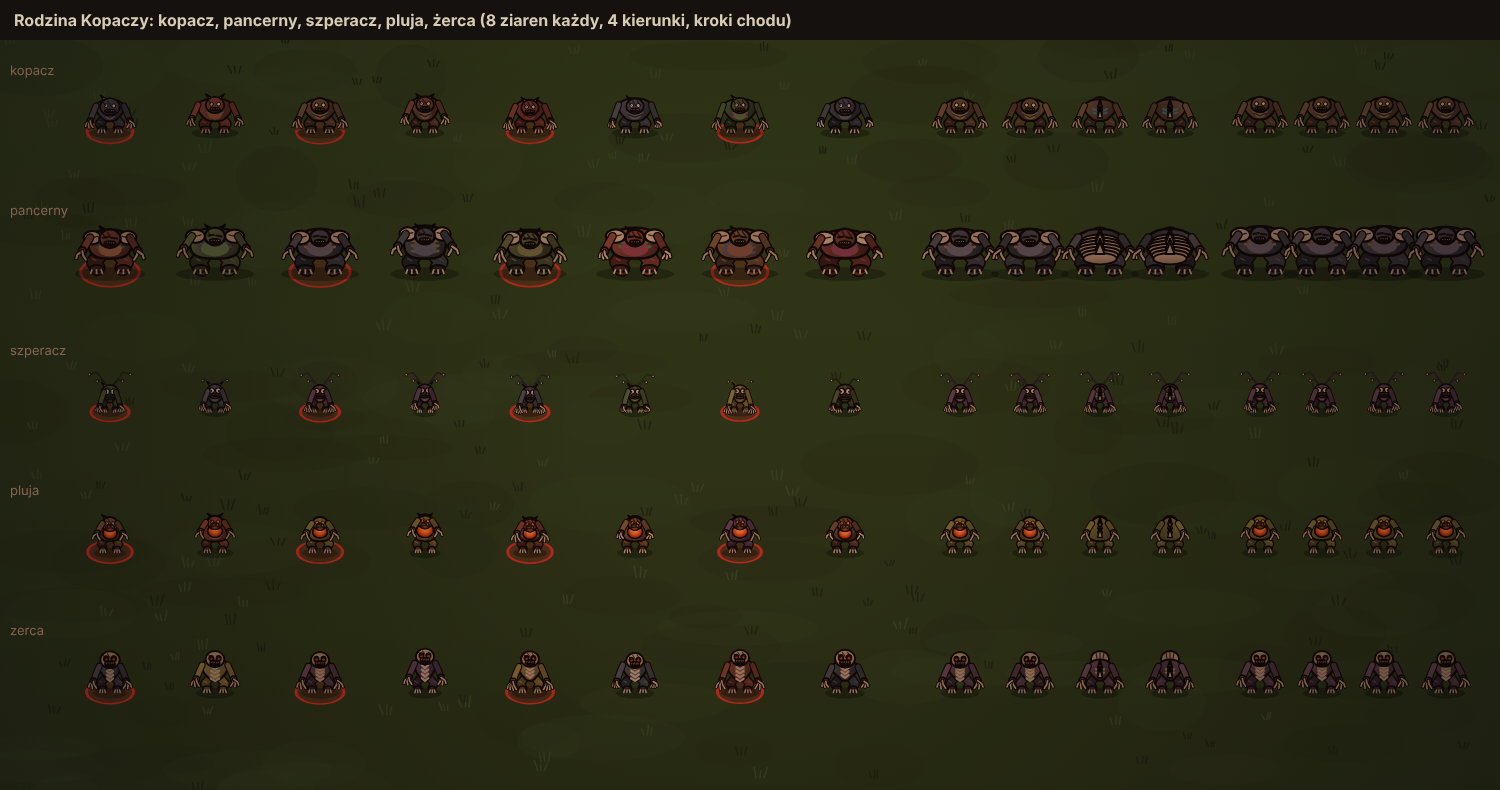
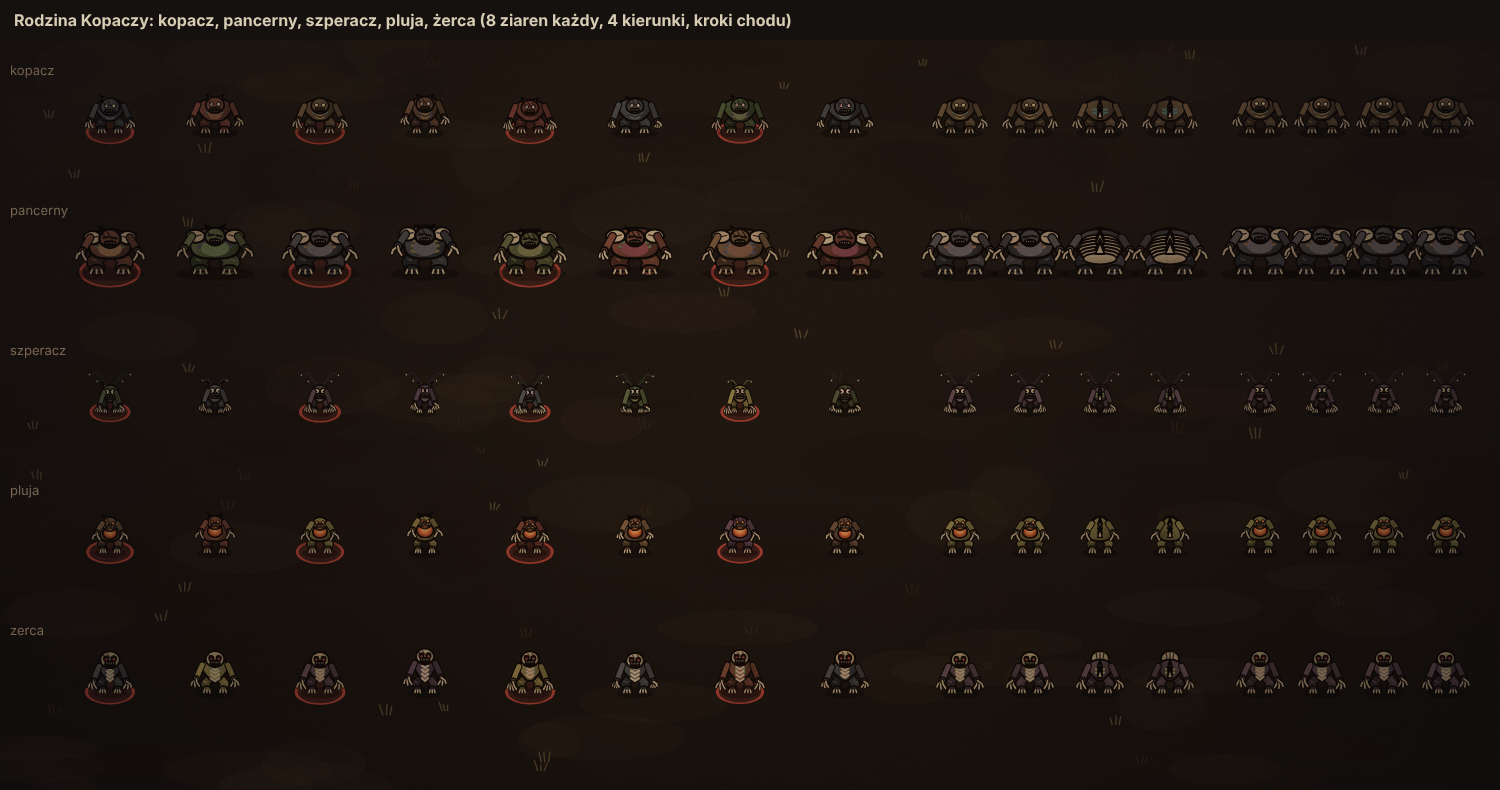
Motywy oprawy: świat jasny, każdy loch własny wygląd (arena, kopacze, gniazdo), nowe ślady na ziemi
Claude-Session: https://claude.ai/code/session_01YGgK3XekFYaLDhBRBtmmRq

diff --git a/www/walka.html b/www/walka.html
@@ -66,7 +66,8 @@ import {genCharacter,drawCharacter,DIRS} from '../src/art/characters.js';
 import {heroSpec} from '../src/art/classes.js';
 import {drawGridLines,fillCells,drawCellOutline,drawFlagstones} from '../src/art/gridview.js';
 import * as N from '../src/art/nature.js';
-import {grave,ashCloud,bloodSplat,bones,crack} from '../src/art/props.js';
+import {grave,ashCloud,DECALS} from '../src/art/props.js';
+import {applyTheme} from '../src/art/theme.js';
 import {applyMood,glow} from '../src/art/mood.js';
 import {drawSpellIcon} from '../src/art/spellicons.js';
 import {createState,currentUnit,unitById,gridOf,occupied} from '../src/game/state.js';
@@ -80,7 +81,7 @@ import {loadCharacter} from '../src/game/save.js';
 import {unitFromCharacter,learnSpell,toggleEquipped} from '../src/game/progression.js';
 
 const cv=document.getElementById('c'),g=cv.getContext('2d'),$=id=>document.getElementById(id);
-const Q=new URLSearchParams(location.search),mood=Q.get('mood')||'grit',scenario=Q.get('scenario')||'default',ALL=Q.get('spells')==='all',PAGE=6;
+const Q=new URLSearchParams(location.search),TH=applyTheme(Q.get('theme')||'arena'),mood=Q.get('mood')||TH.mood,scenario=Q.get('scenario')||'default',ALL=Q.get('spells')==='all',PAGE=6;
 // zapisana postać z kreatora i karty postaci (pomijana, gdy podano ?hero=)
 let SAVED=Q.get('hero')?null:loadCharacter();if(SAVED&&ALL)for(const sp of DEV_SPELLS)SAVED=toggleEquipped(learnSpell(SAVED,sp.id),sp.id);
 const HERO=SAVED?SAVED.classId:(Q.get('hero')||'zalobnik');
@@ -107,10 +108,10 @@ const COL={earth:'#d2a45c',fire:'#ff6a3a',water:'#5ab0ff',air:'#7ae07a',neutral:
 
 const bg=document.createElement('canvas');
 function renderBg(){bg.width=cv.width;bg.height=cv.height;const b=bg.getContext('2d');
-  N.ground(b,bg.width,bg.height,7,{biome:'dark'});N.tufts(b,bg.width,bg.height,7,Math.round(bg.width*bg.height/1400),null,{biome:'dark'});
-  b.setTransform(view.s,0,0,view.s,view.ox,view.oy);drawFlagstones(b,grid,7);drawGridLines(b,grid,'rgba(220,200,170,.16)');
+  N.ground(b,bg.width,bg.height,7,{biome:TH.biome});N.tufts(b,bg.width,bg.height,7,Math.round(bg.width*bg.height/1400*TH.tufts),null,{biome:TH.biome});
+  b.setTransform(view.s,0,0,view.s,view.ox,view.oy);drawFlagstones(b,grid,7,TH.stone);drawGridLines(b,grid,'rgba(220,200,170,.16)');
   // ślady dawnych walk na kaflach: krew, kości, pęknięcia (stałe, zależne tylko od pozycji)
-  for(let y=0;y<7;y++)for(let x=0;x<7;x++){const h=(x*73+y*151+17)%11,c=grid.center(x,y);if(h===0)bloodSplat(b,c[0]+4,c[1],.9,x*7+y);else if(h===1)bones(b,c[0]-3,c[1]+1,.9,x*5+y);else if(h===2||h===3)crack(b,c[0],c[1]+1,.9,x+y*9)}}
+  for(let y=0;y<7;y++)for(let x=0;x<7;x++){const h=(x*73+y*151+17)%11,c=grid.center(x,y);if(h<4&&TH.decals.length)DECALS[TH.decals[h%TH.decals.length]](b,c[0]+(h===0?4:0),c[1]+1,.9,x*7+y*3+h)}}
 function resize(){const r=cv.getBoundingClientRect(),dpr=Math.min(2,window.devicePixelRatio||1);cv.width=Math.max(2,Math.round(r.width*dpr));cv.height=Math.max(2,Math.round(r.height*dpr));
   const bar=$('bar').getBoundingClientRect(),topPad=14*dpr,botPad=14*dpr,rightPad=(bar.width+22)*dpr;
   const availW=cv.width-rightPad,availH=cv.height-botPad-topPad,s=Math.min(availW/WORLD.w,availH/WORLD.h);

diff --git a/www/motywy.html b/www/motywy.html
@@ -1,0 +1,36 @@
+<!doctype html><html lang="pl"><head><meta charset="utf-8"><meta name="viewport" content="width=device-width,initial-scale=1"><title>Motywy oprawy</title>
+<style>body{margin:0;background:#0d0b0a;color:#d8cdb4;font:14px system-ui,sans-serif}h1{font-size:16px;margin:10px 14px}.g{display:grid;grid-template-columns:repeat(2,1fr);gap:8px;padding:0 8px 8px}canvas{width:100%;height:auto;display:block}</style></head><body>
+<h1>Motywy oprawy: świat jest jasny, każdy loch ma własny wygląd</h1>
+<div class="g" id="g"></div>
+<script type="module">
+import {IsoGrid} from '../src/grid.js';
+import * as N from '../src/art/nature.js';
+import {drawFlagstones,drawGridLines} from '../src/art/gridview.js';
+import {DECALS} from '../src/art/props.js';
+import {THEMES,THEME_IDS,applyTheme} from '../src/art/theme.js';
+import {applyMood} from '../src/art/mood.js';
+import {genCharacter,drawCharacter,DIRS} from '../src/art/characters.js';
+import {heroSpec} from '../src/art/classes.js';
+import {genKopacz,drawKopacz} from '../src/art/creatures.js';
+import {genBuilding,drawBuilding} from '../src/art/buildings.js';
+const W=740,H=420;
+for(const id of THEME_IDS){
+  const T=applyTheme(id),cv=document.createElement('canvas');cv.width=W;cv.height=H;document.getElementById('g').append(cv);const g=cv.getContext('2d');
+  N.ground(g,W,H,7,{biome:T.biome});N.tufts(g,W,H,7,Math.round(500*T.tufts),null,{biome:T.biome});
+  const grid=new IsoGrid(5,5,{x:W/2,y:96});
+  if(id!=='swiat'){drawFlagstones(g,grid,7,T.stone);drawGridLines(g,grid,'rgba(220,200,170,.16)')}
+  else drawGridLines(g,grid,'rgba(255,255,255,.2)');
+  for(let y=0;y<5;y++)for(let x=0;x<5;x++){const h=(x*73+y*151+17)%11,c=grid.center(x,y);if(h<4&&T.decals.length)DECALS[T.decals[h%T.decals.length]](g,c[0]+(h===0?4:0),c[1]+1,.95,x*7+y*3+h)}
+  const items=[],hero=heroSpec('zalobnik',{face:1,colors:['#2a2438','#e07a3a','#ff9a4a']});
+  const put=(gx,gy,f)=>items.push({d:gx+gy,f:()=>{const c=grid.center(gx,gy);f(c[0],c[1])}});
+  put(1,3,(x,y)=>drawCharacter(g,x,y-2,{...hero,sc:hero.sc*1.25},{...DIRS.SE,ring:'rgb(60,120,255)'}));
+  if(id==='swiat'){put(3,1,(x,y)=>drawCharacter(g,x,y-2,{...genCharacter(5,'villager'),sc:1.25},{...DIRS.SW}));put(4,4,(x,y)=>N.oak(g,x,y+6,3,{}));put(0,0,(x,y)=>drawBuilding(g,x,y+10,genBuilding(4,'cottage')))}
+  else if(id==='arena'){put(3,1,(x,y)=>drawCharacter(g,x,y-2,{...genCharacter(9,'warrior'),sc:1.25},{...DIRS.SW,ring:'rgb(255,70,70)'}))}
+  else if(id==='kopacze'){put(3,1,(x,y)=>drawKopacz(g,x,y-2,genKopacz(2,'kopacz'),{...DIRS.SW,ring:'rgb(255,70,70)'}));put(3,3,(x,y)=>drawKopacz(g,x,y-2,genKopacz(4,'pancerny'),{...DIRS.SW,ring:'rgb(255,70,70)'}))}
+  else put(3,2,(x,y)=>drawKopacz(g,x,y-2,genKopacz(6,'szperacz'),{...DIRS.SW,ring:'rgb(255,70,70)'}));
+  items.sort((a,b)=>a.d-b.d).forEach(i=>i.f());
+  applyMood(g,W,H,T.mood);
+  g.fillStyle='rgba(0,0,0,.6)';g.fillRect(8,8,250,26);g.fillStyle='#f0e6d0';g.font='bold 15px system-ui';g.fillText(T.name+' ('+id+')',16,26);
+}
+applyTheme('swiat');
+</script></body></html>

diff --git a/src/art/props.js b/src/art/props.js
@@ -131,4 +131,25 @@ export function crack(g, x, y, sc = 1, seed = 1) {
   const pts = [[px, py]]; for (let i = 0; i < 6; i++) { px += r.range(3, 6) * sc; py += r.range(-2.2, 2.2) * sc * 0.6; pts.push([px, py]); if (r() < 0.4) ln([[px, py], [px + r.range(-4, 4) * sc, py + r.range(2, 5) * sc * 0.5]], 0.9, 'rgba(0,0,0,.55)'); }
   ln(pts, 1.6, 'rgba(0,0,0,.6)'); ln(pts.map(([a, b]) => [a + 0.6, b + 0.8]), 0.7, 'rgba(255,255,255,.12)');
 }
-export const PROPS = { bloodSplat, bones, crack, ashCloud, grave, barrel, crate, logs, pot, bench, haybale, sack, lampPost, cart };
+// ślady lochów: kopce ziemi (Kopacze), pajęczyny i kokony (Gniazdo)
+export function mound(g, x, y, sc = 1, seed = 1) {
+  const { blob, ln } = kit(g), r = rng(seed * 41 + 9);
+  blob(x + 2, y + 1, 13 * sc, 4.6 * sc, '#000', 0.3);
+  for (let i = 0; i < 3; i++) blob(x + r.range(-6, 6) * sc, y - i * 2.2 * sc, (11 - i * 3) * sc, (4.4 - i * 0.9) * sc, i % 2 ? '#6a5236' : '#54402a', 1);
+  blob(x - 3 * sc, y - 4 * sc, 5 * sc, 1.6 * sc, '#8a7050', 0.55);
+  for (let i = 0; i < 5; i++) blob(x + r.range(-14, 14) * sc, y + r.range(-2, 4) * sc, r.range(0.8, 1.8) * sc, r.range(0.5, 1) * sc, '#3a2a1a', 0.8);
+  ln([[x + 8 * sc, y + 1], [x + 15 * sc, y + 3]], 1.2, 'rgba(0,0,0,.4)');
+}
+export function web(g, x, y, sc = 1, seed = 1) {
+  const { ln } = kit(g), r = rng(seed * 43 + 11), n = r.int(5, 7), R = r.range(13, 20) * sc, a0 = r.range(0, 6.28), col = 'rgba(226,226,240,.5)';
+  for (let i = 0; i < n; i++) { const a = a0 + (i / n) * 6.28; ln([[x, y], [x + Math.cos(a) * R, y + Math.sin(a) * R * 0.5]], 0.9, col); }
+  for (const k of [0.35, 0.65, 1]) { const pts = []; for (let i = 0; i <= n; i++) { const a = a0 + (i / n) * 6.28, rr = R * k * (i % 2 ? 0.88 : 1); pts.push([x + Math.cos(a) * rr, y + Math.sin(a) * rr * 0.5]); } ln(pts, 0.8, col); }
+}
+export function eggs(g, x, y, sc = 1, seed = 1) {
+  const { blob, ell } = kit(g), r = rng(seed * 47 + 13);
+  blob(x, y + 1, 12 * sc, 4 * sc, '#000', 0.3);
+  for (let i = 0; i < r.int(4, 7); i++) { const ex = x + r.range(-9, 9) * sc, ey = y + r.range(-3, 2) * sc, s = r.range(2.6, 4.2) * sc; ell(ex, ey - s, s, s * 1.2, '#cfcbbf', 1.4); blob(ex - s * 0.3, ey - s * 1.4, s * 0.35, s * 0.4, '#fff', 0.5); blob(ex, ey - s * 0.4, s * 0.8, s * 0.5, 'rgba(60,50,80,.3)', 1); }
+  for (let i = 0; i < 6; i++) blob(x + r.range(-13, 13) * sc, y + r.range(-4, 3) * sc, r.range(3, 6) * sc, 0.7 * sc, 'rgba(220,220,235,.35)', 1);
+}
+export const DECALS = { bloodSplat, bones, crack, mound, web, eggs };
+export const PROPS = { mound, web, eggs, bloodSplat, bones, crack, ashCloud, grave, barrel, crate, logs, pot, bench, haybale, sack, lampPost, cart };

diff --git a/src/art/nature.js b/src/art/nature.js
@@ -132,14 +132,16 @@ export function pond(g, cx, cy, rx, ry, seed) {
 export const TREES = { oak, pine, birch, deadTree };
 
 // Teren: rozmyte plamy, kępki trawy, kwiatki i kamyki. Bez widocznych kafli, siatkę dokłada tryb walki.
+// podłoże lochów: odcień, nasycenie i jasność gruntu oraz kolor suchych kępek
+export const DUNGEON = { arena: { hue: 36, sat: 0.3, l: 0.3, tuft: 60 }, kopacze: { hue: 24, sat: 0.36, l: 0.28, tuft: 34 }, pajaki: { hue: 272, sat: 0.18, l: 0.2, tuft: 150 } };
 export function ground(g, W, H, seed, opt = {}) {
   const r = rng(seed * 59 + 1), { lg, blob } = kit(g), b = opt.biome || 'summer';
-  const hue = { summer: 98, lush: 118, autumn: 62, spring: 88, dark: 36 }[b], dark = b === 'dark';
-  g.fillStyle = lg(0, 0, 0, H, hsl(hue, dark ? 0.3 : 0.55, dark ? 0.3 : 0.56), hsl(hue, dark ? 0.28 : 0.52, dark ? 0.2 : 0.46)); g.fillRect(0, 0, W, H);
-  for (let i = 0; i < W * H / 9000; i++) blob(r() * W, r() * H, r.range(30, 90), r.range(12, 34), r() < 0.5 ? hsl(hue + 8, 0.6, dark ? 0.42 : 0.66) : hsl(hue - 6, 0.5, dark ? 0.2 : 0.38), 0.2);
+  const D = DUNGEON[b], hue = D ? D.hue : { summer: 98, lush: 118, autumn: 62, spring: 88, dark: 130 }[b], dark = b === 'dark' || !!D;
+  g.fillStyle = lg(0, 0, 0, H, hsl(hue, D ? D.sat : 0.55, D ? D.l : dark ? 0.34 : 0.56), hsl(hue, D ? D.sat * 0.93 : 0.52, D ? D.l * 0.68 : dark ? 0.26 : 0.46)); g.fillRect(0, 0, W, H);
+  for (let i = 0; i < W * H / 9000; i++) blob(r() * W, r() * H, r.range(30, 90), r.range(12, 34), r() < 0.5 ? hsl(hue + 8, D ? D.sat * 1.3 : 0.6, dark ? 0.42 : 0.66) : hsl(hue - 6, D ? D.sat : 0.5, dark ? 0.2 : 0.38), 0.2);
 }
 export function tufts(g, W, H, seed, n, avoid, opt = {}) {
-  const r = rng(seed * 61 + 7), { ln } = kit(g), b = opt.biome || 'summer', hue = { summer: 98, lush: 118, autumn: 62, spring: 88, dark: 60 }[b];
+  const r = rng(seed * 61 + 7), { ln } = kit(g), b = opt.biome || 'summer', hue = (DUNGEON[b] ? DUNGEON[b].tuft : { summer: 98, lush: 118, autumn: 62, spring: 88, dark: 130 }[b]);
   for (let i = 0; i < n; i++) { const x = r() * W, y = r() * H; if (avoid && avoid(x, y)) continue; const c = r() < 0.5 ? hsl(hue, 0.5, 0.34) : hsl(hue + 8, 0.6, 0.7), s = r.range(0.8, 1.3); for (const dx of [-3, 0, 3]) ln([[x + dx * s, y], [x + dx * s * 1.6 + (r() - 0.5) * 3, y - 7 * s * r.range(0.7, 1.3)]], 1.4, c); }
 }
 

diff --git a/src/art/theme.js b/src/art/theme.js
@@ -1,0 +1,18 @@
+// Motywy oprawy. Świat (eksploracja) zostaje jasny i barwny, a każdy loch ma własny, surowszy wygląd dobrany do swoich wrogów:
+// przygaszenie kolorów (grit), nastrój światła, podłoże, kamienne płyty i ślady na ziemi.
+// Nowy loch = nowy wpis tutaj (plus wpis w Księdze Latarni, patrz CLAUDE.md).
+import { GRIT } from './color.js';
+
+export const THEMES = {
+  swiat: { name: 'Świat', grit: { sat: 1, light: 1 }, mood: 'dzien', biome: 'summer', tufts: 1, stone: { hue: [30, 46], sat: [10, 18], l: [34, 44] }, decals: [] },
+  arena: { name: 'Pogrzebana arena', grit: { sat: 0.66, light: 0.88 }, mood: 'grit', biome: 'arena', tufts: 0.45, stone: { hue: [24, 40], sat: [8, 16], l: [20, 30] }, decals: ['bloodSplat', 'bones', 'crack', 'crack'] },
+  kopacze: { name: 'Podziemne Korytarze', grit: { sat: 0.78, light: 0.9 }, mood: 'ziemia', biome: 'kopacze', tufts: 0.12, stone: { hue: [16, 32], sat: [18, 30], l: [20, 29] }, decals: ['mound', 'bones', 'crack', 'mound'] },
+  pajaki: { name: 'Gniazdo', grit: { sat: 0.6, light: 0.82 }, mood: 'gniazdo', biome: 'pajaki', tufts: 0.2, stone: { hue: [250, 290], sat: [6, 16], l: [16, 25] }, decals: ['web', 'eggs', 'web', 'bones'] },
+};
+export const THEME_IDS = Object.keys(THEMES);
+// ustawia przygaszenie kolorów generatorów i zwraca opis motywu
+export function applyTheme(id) {
+  const t = THEMES[id] || THEMES.swiat;
+  GRIT.sat = t.grit.sat; GRIT.light = t.grit.light;
+  return t;
+}

diff --git a/src/art/gridview.js b/src/art/gridview.js
@@ -22,11 +22,11 @@ export function drawBlocked(g, grid, x, y) {
 
 // Kafle jak płyty z kamienia: każdy w innym odcieniu, ze ściętymi krawędziami, plamami brudu i drobnymi odpryskami.
 import { rng } from './rng.js';
-export function drawFlagstones(g, grid, seed = 1) {
+export function drawFlagstones(g, grid, seed = 1, stone = { hue: [24, 40], sat: [8, 16], l: [20, 30] }) {
   const { poly, ln } = kit(g);
   for (let y = 0; y < grid.rows; y++) for (let x = 0; x < grid.cols; x++) {
-    const r = rng(seed * 131 + x * 17 + y * 29), [t, rt, b, l] = grid.corners(x, y), L = r.range(0.2, 0.3);
-    const col = `hsl(${r.range(24, 40)},${r.range(8, 16)}%,${L * 100}%)`;
+    const r = rng(seed * 131 + x * 17 + y * 29), [t, rt, b, l] = grid.corners(x, y), L = r.range(stone.l[0], stone.l[1]) / 100;
+    const col = `hsl(${r.range(...stone.hue)},${r.range(...stone.sat)}%,${L * 100}%)`;
     poly([t, rt, b, l], col, 0);
     g.save(); g.beginPath(); [t, rt, b, l].forEach(([px, py], i) => (i ? g.lineTo(px, py) : g.moveTo(px, py))); g.closePath(); g.clip();
     const cx = (t[0] + b[0]) / 2, cy = (t[1] + b[1]) / 2;

diff --git a/www/przeciwnicy.html b/www/przeciwnicy.html
@@ -5,9 +5,11 @@
 <script type="module">
 import { genKopacz, drawKopacz, KOPACZE, DIRS } from '../src/art/creatures.js';
 import { applyMood } from '../src/art/mood.js';
+import { applyTheme } from '../src/art/theme.js';
+const TH = applyTheme('kopacze');
 import { ground, tufts } from '../src/art/nature.js';
 const cv = document.getElementById('c'), g = cv.getContext('2d');
-ground(g, 1500, 760, 5); tufts(g, 1500, 760, 5, 200);
+ground(g, 1500, 760, 5, { biome: TH.biome }); tufts(g, 1500, 760, 5, 60, null, { biome: TH.biome });
 g.fillStyle = 'rgba(14,10,6,.55)'; g.fillRect(0, 0, 1500, 760);
 g.fillStyle = '#d8cdb4'; g.font = '13px system-ui';
 KOPACZE.forEach((kind, row) => {
@@ -17,5 +19,5 @@ KOPACZE.forEach((kind, row) => {
   for (const [j, d] of Object.values(DIRS).entries()) drawKopacz(g, 960 + j * 70, y, s, d);
   [0.1, 0.35, 0.6, 0.85].forEach((t, j) => drawKopacz(g, 1260 + j * 62, y, s, { view: 'front', t }));
 });
-applyMood(g, 1500, 760, 'zmierzch');
+applyMood(g, 1500, 760, TH.mood);
 </script></body></html>

diff --git a/src/art/color.js b/src/art/color.js
@@ -6,8 +6,8 @@ export function toHsl(hex) {
   if (d) { S = L > 0.5 ? d / (2 - mx - mn) : d / (mx + mn); H = mx === r ? (g - b) / d + (g < b ? 6 : 0) : mx === g ? (b - r) / d + 2 : (r - g) / d + 4; H *= 60; }
   return [H, S, L];
 }
-// Surowość: wszystkie kolory generowane przez hsl() są przygaszone i przyciemnione (bliżej Diablo niż bajki). 1 = bez zmian.
-export const GRIT = { sat: 0.66, light: 0.88 };
+// Surowość motywu: kolory z hsl() są przygaszane i ciemnione zależnie od motywu (src/art/theme.js). 1 = świat, bez zmian.
+export const GRIT = { sat: 1, light: 1 };
 export const hsl = (h, s, l) => hslRaw(h, s * GRIT.sat, l * GRIT.light);
 export function hslRaw(h, s, l) {
   h = ((h % 360) + 360) % 360; s = Math.max(0, Math.min(1, s)); l = Math.max(0, Math.min(1, l));

diff --git a/src/art/mood.js b/src/art/mood.js
@@ -6,6 +6,8 @@ export const MOODS = {
   noc: { tint: 'rgb(118,130,190)', vig: 0.66 },
   // surowo: wyblakłe kolory, brudne ciepłe cienie, ciężka winieta i ziarno
   gritLekki: { tint: 'rgb(214,202,192)', vig: 0.42, desat: 0.4, grain: 0.18 },
+  ziemia: { tint: 'rgb(214,186,156)', vig: 0.62, desat: 0.36, grain: 0.2 },
+  gniazdo: { tint: 'rgb(168,176,206)', vig: 0.78, desat: 0.55, grain: 0.24 },
   grit: { tint: 'rgb(196,184,176)', vig: 0.72, desat: 0.5, grain: 0.22 },
 };
 export function applyMood(g, w, h, name = 'noc') {

diff --git a/www/kreator.html b/www/kreator.html
@@ -56,6 +56,8 @@ import {drawCharacter,DIRS} from '../src/art/characters.js';
 import {CLASSES,ORIGINS,TRAITS,MAX_TRAITS,startStats} from '../src/game/classdata.js';
 import {glow,applyMood} from '../src/art/mood.js';
 import {installFrames,drawLock} from '../src/art/ui.js';
+import {applyTheme} from '../src/art/theme.js';
+applyTheme('arena');
 import {newCharacter} from '../src/game/progression.js';
 import {saveCharacter} from '../src/game/save.js';
 installFrames();

diff --git a/CLAUDE.md b/CLAUDE.md
@@ -26,6 +26,7 @@ Hybryda w fazach: stały bohater i świat do eksploracji, Pogrzebana arena jako 
 - Budynek musi mieć kontakt z gruntem: wydeptana ziemia pod podstawą, cień, ciemniejszy pas przy murze, kępki trawy.
 
 ## Styl graficzny
+- **Motywy** (`src/art/theme.js`): świat i eksploracja zostają jasne i barwne (`swiat`, bez przygaszenia), a **każdy loch ma własny motyw** dobrany do swoich wrogów (przygaszenie kolorów, nastrój światła, podłoże, kamienne płyty, ślady na ziemi). Na start: `arena`, `kopacze`, `pajaki`. Nowy loch = nowy wpis w `THEMES` (plus wpis w Księdze). Strona porównawcza: `www/motywy.html`. Strony świata nie wywołują `applyTheme`, walka wybiera motyw przez `?theme=`.
 - Równy ciemnobrązowy kontur (`OUT` z `src/art/kit.js`), nasycone kolory, gradienty zamiast płaskich wypełnień, światło z lewej góry (lewa ściana ciemniejsza, prawa jaśniejsza).
 - Rzut izometryczny 2:1, kafel `TW=72`, `TH=36` (`src/grid.js`). Punkt (X,Y) budynku to jego przedni dolny róg.
 - Postacie mają 4 kierunki: SE i NE rysowane wprost, SW i NW to lustro. Chód to parametr `t` od 0 do 1.
